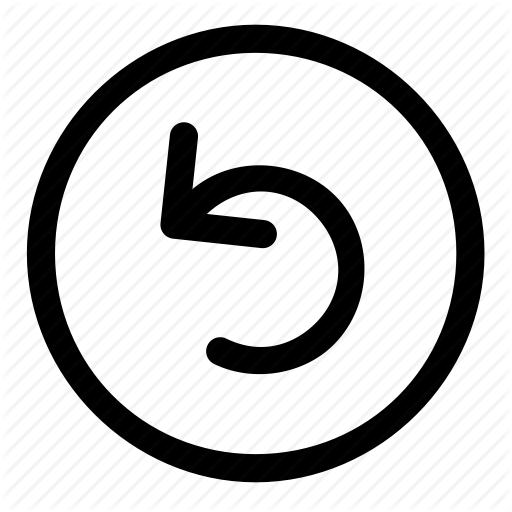
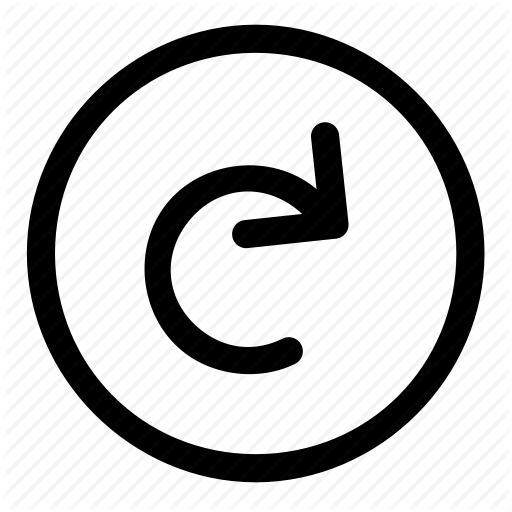
update 19.52

diff --git a/paint.js b/paint.js
@@ -1,69 +1,212 @@
 var draw; 
 var m, c; 
-var tmp_paint;
 var bef_paint=[];
 var af_paint=[];
+var tool;
+var color;
+var brush;
+
+//last mouse
+var lastX,lastY;
 
 function init() {
     m = document.getElementById("m"); 
     c = m.getContext("2d");
     brush1.checked = "checked";
     m.setAttribute("style", "cursor:url(image/featherpenpointer.cur),default;");
+    tool = "pen";
+    color = "black";
+    brush = 1;
 }
+
+//mouse
 function md() {
-    c.moveTo(event.offsetX, event.offsetY);
-    draw = true;
-    c.beginPath();
+    bef_paint.push(c.getImageData(0,0,m.width, m.height));
+    switch(tool){
+        case "eraser":
+            c.strokeStyle = "rgb(255,255,255)";
+            c.lineWidth = brush;
+            c.moveTo(event.offsetX, event.offsetY);
+            draw = true;
+            c.beginPath();
+            break;
+        
+        case "rectangle":
+            c.strokeStyle = color;
+            c.lineWidth = brush;
+            c.moveTo(event.offsetX, event.offsetY);
+            lastX = event.offsetX;
+            lastY = event.offsetY;
+            draw = true;
+            break;
+
+        case "text":
+            c.fillStyle = color;
+            c.font = brush + '2' + 'px fantasy';
+            c.fillText(document.getElementById("text_data").value,event.offsetX,event.offsetY);
+            break;
+            
+        default:
+            c.strokeStyle = color;
+            c.lineWidth = brush;
+            c.moveTo(event.offsetX, event.offsetY);
+            lastX = event.offsetX;
+            lastY = event.offsetY;
+            draw = true;
+            c.beginPath();
+            break;
+    }
 }
 function mv() {
     if (draw) {
-        c.lineTo(event.offsetX, event.offsetY);
-        c.stroke();
+        switch(tool){
+            case "pen":
+                c.lineTo(event.offsetX, event.offsetY);
+                c.stroke();
+                break;
+            
+            case "eraser":
+                c.lineTo(event.offsetX, event.offsetY);
+                c.stroke();
+                break;
+
+            case "rectangle":
+                c.putImageData(bef_paint[bef_paint.length-1], 0, 0);
+                c.beginPath(); 
+                c.lineTo(event.offsetX, lastY);
+                c.lineTo(event.offsetX, event.offsetY);
+                c.lineTo(lastX, event.offsetY);
+                c.lineTo(lastX, lastY);
+                c.closePath();
+                c.stroke();  
+                break;
+
+            case "circle":
+                c.putImageData(bef_paint[bef_paint.length-1], 0, 0);
+                c.beginPath();
+                c.arc(lastX, lastY, Math.sqrt((lastX-event.offsetX)*(lastX-event.offsetX) + (lastY-event.offsetY)*(lastY-event.offsetY)), 0, 2 * Math.PI);
+                c.closePath();
+                c.stroke();  
+                break;
+
+            case "triangle":
+                c.putImageData(bef_paint[bef_paint.length-1], 0, 0);
+                c.beginPath();  
+                c.lineTo(event.offsetX, event.offsetY);
+                c.lineTo(2*lastX-event.offsetX, event.offsetY);
+                c.lineTo(lastX, lastY);
+                c.closePath();
+                c.stroke(); 
+                break;
+
+            case "line":
+                c.putImageData(bef_paint[bef_paint.length-1], 0, 0);
+                c.beginPath();  
+                c.lineTo(event.offsetX, event.offsetY);
+                c.lineTo(lastX, lastY);
+                c.closePath();
+                c.stroke();  
+                break;
+
+            default:
+                c.lineTo(event.offsetX, event.offsetY);
+                c.stroke();
+                break;
+        }
     }
 }
 function mup() {
-    if(draw){
+    if(draw && event.offsetX>=0 && event.offsetX<=m.width && event.offsetY>=0 && event.offsetY<=m.height){
         draw = false;
         c.closePath();
-        bef_paint.push(c.getImageData(0,0,m.width, m.height));
     }
 }
 
 //undo redo
 function undo(){
-    bef_paint.push(c.getImageData(0,0,m.width, m.height));
-    c.putImageData(af_paint[af_paint.length-1],0,0);
-    af_paint.pop();
-    
+    if(bef_paint.length > 0){
+        af_paint.push(c.getImageData(0,0,m.width, m.height));
+        c.putImageData(bef_paint[bef_paint.length-1], 0, 0);
+        bef_paint.pop();
+    }
 }
 function redo(){
-    af_paint.push(c.getImageData(0,0,m.width, m.height));
-    c.putImageData(bef_paint[bef_paint.length-1], 0, 0);
-    bef_paint.pop();
-
+    if(af_paint.length > 0){
+        bef_paint.push(c.getImageData(0,0,m.width, m.height));
+        c.putImageData(af_paint[af_paint.length-1],0,0);
+        af_paint.pop();
+    }
 }
 
-function color1() { c.strokeStyle = "black"; m.setAttribute("style", "cursor:url(image/featherpenpointer.cur),default;");}
-function color2() { c.strokeStyle = "red";m.setAttribute("style", "cursor:url(image/featherpenpointer.cur),default;");}
-function color3() { c.strokeStyle = "orange"; m.setAttribute("style", "cursor:url(image/featherpenpointer.cur),default;");}
-function color4() { c.strokeStyle = "yellow"; m.setAttribute("style", "cursor:url(image/featherpenpointer.cur),default;");}
-function color5() { c.strokeStyle = "green"; m.setAttribute("style", "cursor:url(image/featherpenpointer.cur),default;");}
-function color6() { c.strokeStyle = "blue"; m.setAttribute("style", "cursor:url(image/featherpenpointer.cur),default;");}
-function color7() { c.strokeStyle = "purple"; m.setAttribute("style", "cursor:url(image/featherpenpointer.cur),default;");}
-function color8() { c.strokeStyle = "brown"; m.setAttribute("style", "cursor:url(image/featherpenpointer.cur),default;");}
+//upload pic
+function uploading(){
+    var upload = document.getElementById("upload");
+    upload.addEventListener("change",uploadImage,false);
 
-function brush1() { c.lineWidth = 1; }
-function brush2() { c.lineWidth = 3; }
-function brush3() { c.lineWidth = 5; }
-function brush4() { c.lineWidth = 10; }
-function brush5() { c.lineWidth = 20; }
+    function uploadImage(e){
+        var reader = new FileReader();
 
-function Button1_onclick() { 
+        reader.onload = function(event){
+            var img = new Image();
+            img.onload = function () {
+                c.drawImage(img,0,0,img.width,img.height);
+            }
+            img.src = event.target.result;
+        }
+        reader.readAsDataURL(e.target.files[0]);
+	}
+}
+
+function color1() { color = "black"; }
+function color2() { color = "red";}
+function color3() { color = "orange";}
+function color4() { color = "yellow"; }
+function color5() { color = "green"; }
+function color6() { color = "blue"; }
+function color7() { color = "purple";}
+function color8() { color = "brown"; }
+
+function brush1() { brush = 1; }
+function brush2() { brush = 3; }
+function brush3() { brush = 5; }
+function brush4() { brush = 10; }
+function brush5() { brush = 20; }
+
+function reset() { 
     c.clearRect(0,0,m.width, m.height); 
-    af.push(c.getImageData(0,0,m.width, m.height));
+    bef_paint.push(c.getImageData(0,0,m.width, m.height));
 }
-function Button2_onclick() { 
-    c.strokeStyle = "rgb(255,255,255)"; 
+
+// tool
+function pen() { 
+    tool = "pen";
+    m.setAttribute("style", "cursor:url(image/featherpenpointer.cur),default;");
+}
+
+function eraser() { 
+    tool = "eraser";
     m.setAttribute("style", "cursor:url(image/eraser.cur),default;");
 }
 
+function rectangle() { 
+    tool = "rectangle";
+    m.style.cursor = "crosshair";
+}
+function circle() { 
+    tool = "circle";
+    m.style.cursor = "crosshair";
+}
+function triangle() { 
+    tool = "triangle";
+    m.style.cursor = "crosshair";
+}
+function line() { 
+    tool = "line";
+    m.style.cursor = "crosshair";
+}
+
+// text
+function text(){
+    m.style.cursor = "text";
+    tool = "text";
+}

diff --git a/index.html b/index.html
@@ -8,9 +8,9 @@
 
     <body onload="init()">
       <center>
-          <div style="width: 850px; height: 420px; text-align: center; background-color: #FFFFFF;"
+          <div style="width: 900px; height: 390px; text-align: center; background-color: #FFFFFF;"
             onmousedown="md()" onmousemove="mv()" onmouseup="mup()">
-          <canvas id="m" width="850" height="420"></canvas>
+          <canvas id="m" width="900" height="390"></canvas>
         </div>
       </center>
       
@@ -25,18 +25,29 @@
           <input id="color8" class="button button8" checked="" name="R" type="button" value="brown" onclick="return color8()" />
       </p>
       <p style="text-align: center">size：
-          <input id="brush1" checked="" name="W" type="button" value="1" onclick="return brush1()" />
-          <input id="brush2" checked="" name="W" type="button" value="3" onclick="return brush2()" />
-          <input id="brush3" checked="" name="W" type="button" value="5" onclick="return brush3()" />
-          <input id="brush4" checked="" name="W" type="button" value="10" onclick="return brush4()" />
-          <input id="brush5" checked="" name="W" type="button" value="20" onclick="return brush5()" />
+          <input id="brush1" class="btn" checked="" name="W" type="button" value="1" onclick="return brush1()" />
+          <input id="brush2" class="btn" checked="" name="W" type="button" value="3" onclick="return brush2()" />
+          <input id="brush3" class="btn" checked="" name="W" type="button" value="5" onclick="return brush3()" />
+          <input id="brush4" class="btn" checked="" name="W" type="button" value="10" onclick="return brush4()" />
+          <input id="brush5" class="btn" checked="" name="W" type="button" value="20" onclick="return brush5()" />
+          <input type="text" value="text here" id="text_data">
+			    <input type="button" id="text" value="Text Stamp" onclick="text()">
           
       </p>
       <p style="text-align: center">
-          <input id="Button2" type="button" value="eraser" onclick="return Button2_onclick()" />
-          <input id="redo" class="redo" type="button" onclick="return redo()" />
-          <input id="undo" class="undo" type="button" onclick="return undo()" />
-          <input id="Button1" type="button" value="清空畫布" onclick="return Button1_onclick()" />
+          <input id="pen" class="btn" type="button" value="pen" onclick="return pen()" />
+          <input id="eraser" class="btn" type="button" value="eraser" onclick="return eraser()" />
+          <button type="button" class="btn" onclick="rectangle()" id="rectangle"><img src="image/rectangle.png" width="20px" height="20px"></button>
+          <button type="button" class="btn" onclick="circle()" id="circle"><img src="image/circle.png" width="20px" height="20px"></button>
+          <button type="button" class="btn" onclick="triangle()" id="triangle"><img src="image/triangle.png" width="20px" height="20px"></button>
+          <button type="button" class="btn" onclick="line()" id="line"><img src="image/line.png" width="20px" height="20px"></button>
+
+          <button type="button" class="btn" onclick="undo()" id="undo"><img src="image/undo.png" width="20px" height="20px"></button>
+          <button type="button" class="btn" onclick="redo()" id="redo"><img src="image/redo.png" width="20px" height="20px"></button>
+          <input type="file" id="upload" class="file" size="20" onclick="uploading()" />
+          <input id="reset" class="btn" type="button" value="delete all" onclick="return reset()" />
+      </p>
+      <p style="text-align: center">
           <a href="#" download="paint.jpg" onclick="this.href=document.getElementById('m').toDataURL()">Download</a>
       </p>
 

diff --git a/paint.CSS b/paint.CSS
@@ -1,7 +1,9 @@
 body {
-    background-color: rgb(64, 235, 141);
+    background-color: rgba(17, 37, 43, 0.664);
 }
-
+.btn{
+    cursor:pointer;
+}
 .button {
     background-color: rgb(0, 0, 0);
     border: none;
@@ -23,16 +25,16 @@ body {
 .button8 {background-color: brown;}
 
 .redo {
-    background-image:url(/images/redo.png);
+    background-image:url('image/redo.png');
     background-repeat:no-repeat;
     width:30px;
-    height:30px;
+    height:25px;
     cursor: pointer;
 }
 .undo {
-    background-image:url(/images/undo.png);
+    background-image:url('image/undo.png');
     background-repeat:no-repeat;
     width:30px;
-    height:30px;
+    height:25px;
     cursor: pointer;
 }
